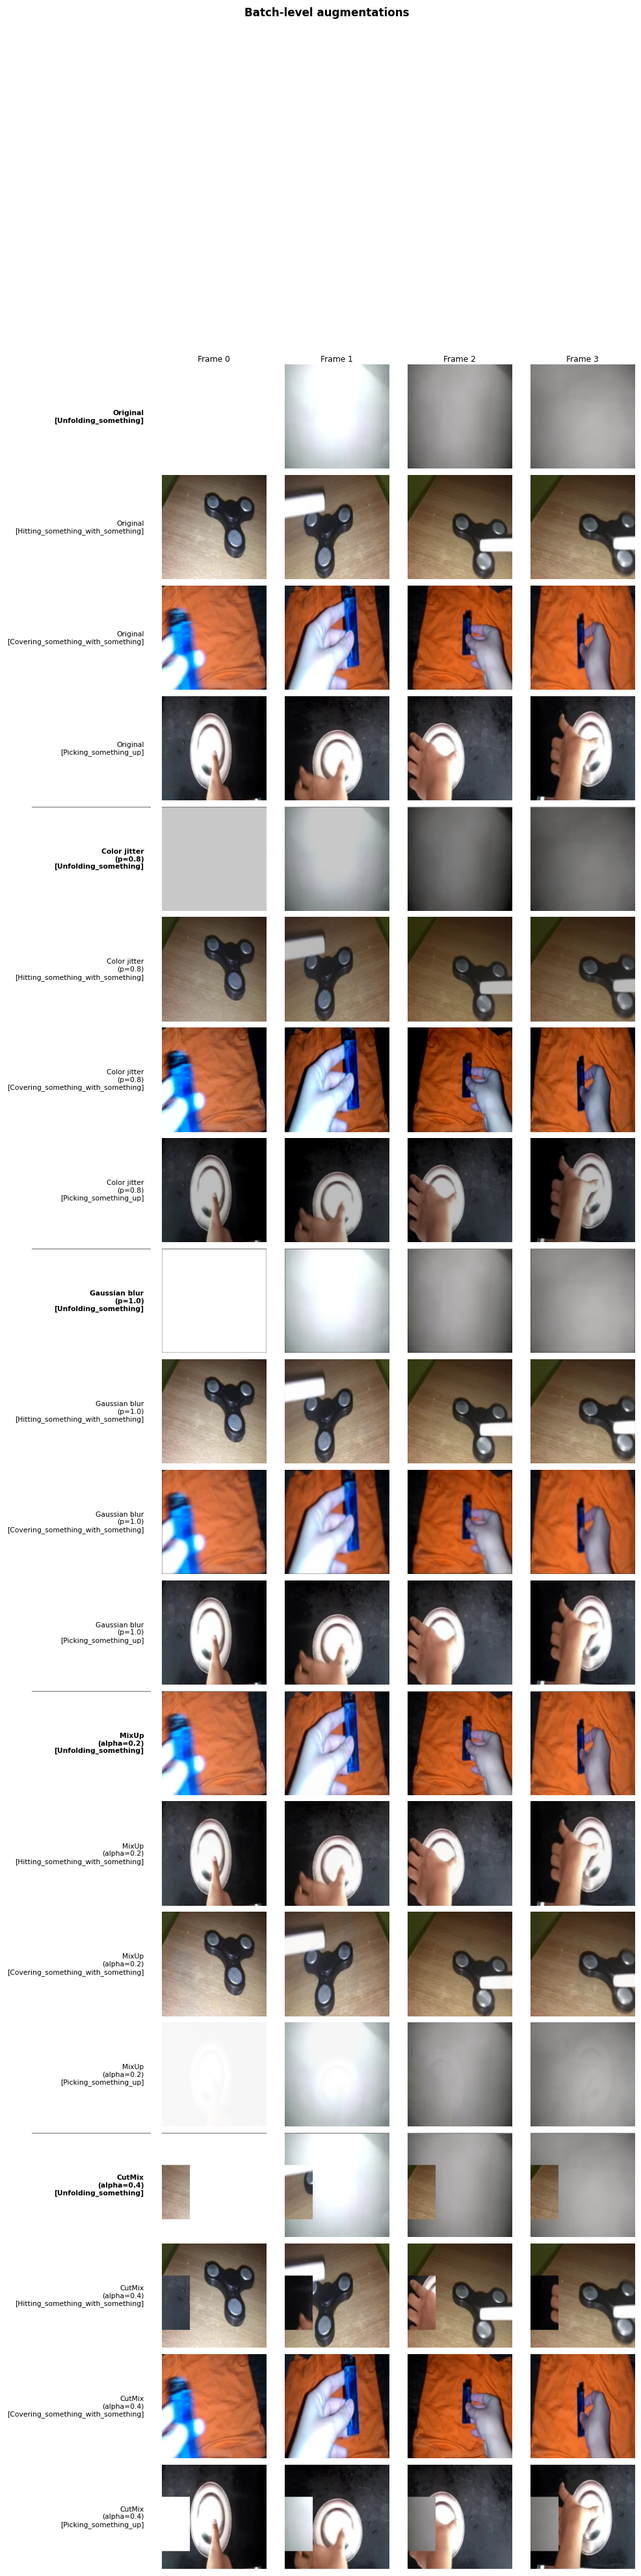
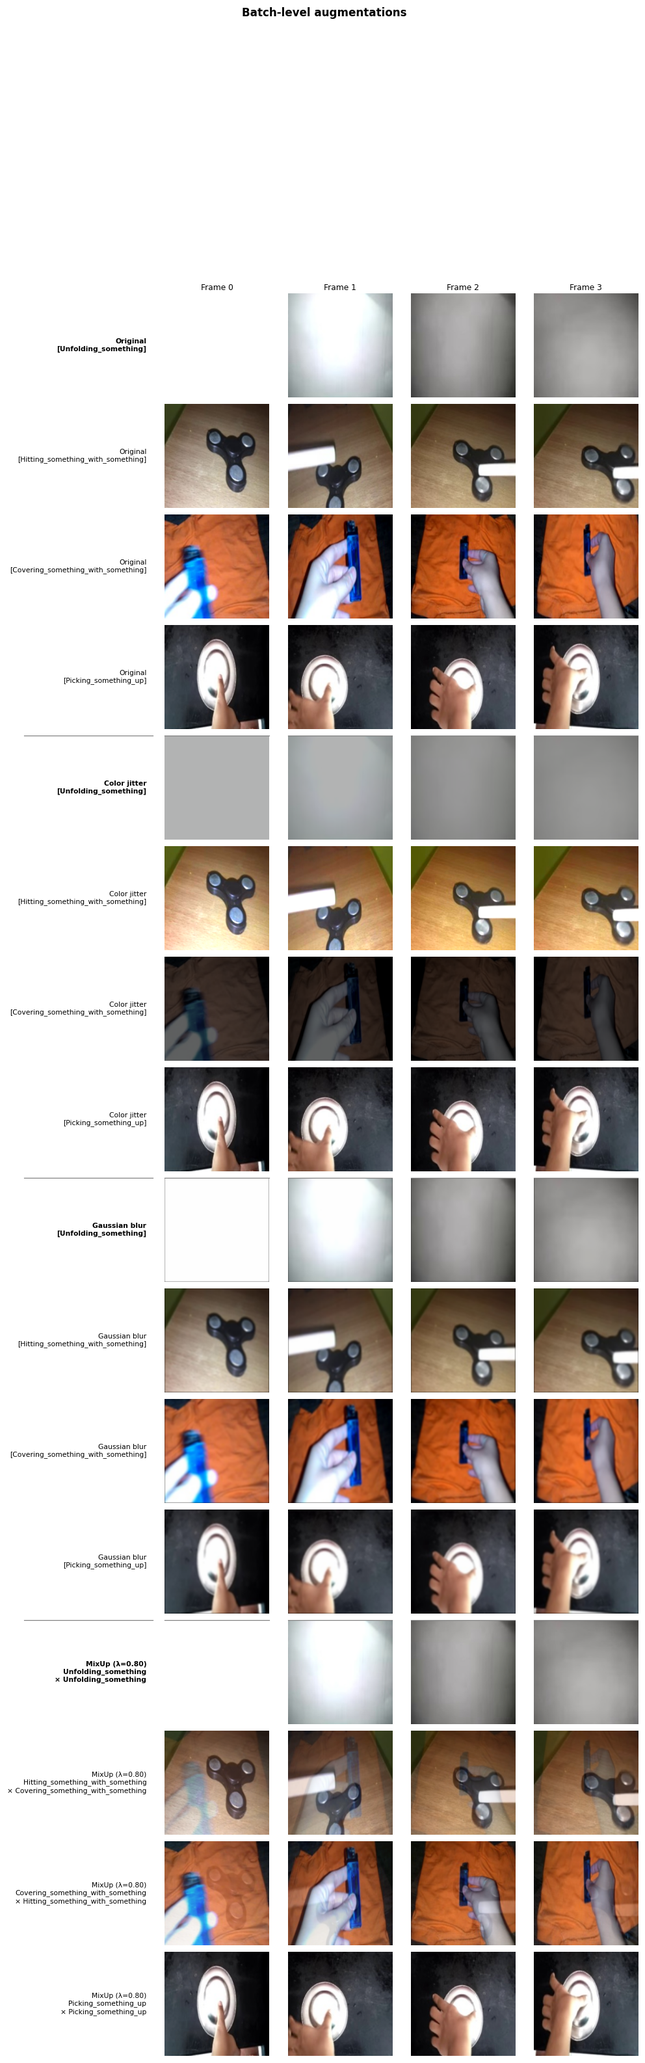
a

diff --git a/src/visualize_augmentations.py b/src/visualize_augmentations.py
@@ -23,7 +23,6 @@ matplotlib.use("Agg")
 import matplotlib.pyplot as plt
 import numpy as np
 import torch
-import torchvision.transforms as T
 from PIL import Image
 
 from dataset.video_dataset import _list_frame_paths, _pick_frame_indices, collect_video_samples
@@ -34,47 +33,33 @@ from train import (
     label_aware_temporal_reverse,
     mixup_batch,
 )
-
-
-@torch.no_grad()
-def cutmix_batch(
-    clips: torch.Tensor, labels: torch.Tensor,
-    alpha: float = 0.4, num_classes: int = 33,
-) -> Tuple[torch.Tensor, torch.Tensor]:
-    lam = float(torch.distributions.Beta(alpha, alpha).sample())
-    B, T, C, H, W = clips.shape
-    idx = torch.randperm(B, device=clips.device)
-    cut_h = int(H * (1 - lam) ** 0.5)
-    cut_w = int(W * (1 - lam) ** 0.5)
-    cy, cx = int(torch.randint(H, (1,))), int(torch.randint(W, (1,)))
-    y1, y2 = max(0, cy - cut_h // 2), min(H, cy + cut_h // 2)
-    x1, x2 = max(0, cx - cut_w // 2), min(W, cx + cut_w // 2)
-    mixed = clips.clone()
-    mixed[:, :, :, y1:y2, x1:x2] = clips[idx, :, :, y1:y2, x1:x2]
-    lam = 1.0 - (y2 - y1) * (x2 - x1) / (H * W)
-    y = torch.zeros(B, num_classes, device=clips.device)
-    y.scatter_(1, labels.unsqueeze(1), 1.0)
-    return mixed, lam * y + (1 - lam) * y[idx]
+from utils import build_transforms
 
 NUM_FRAMES = 4
+USE_IMAGENET_NORM = False  # matches Track A (pretrained=false)
 
-# Display transforms: spatial augmentations only, NO normalization.
-# Augmentation functions (color_jitter_video, etc.) expect [0, 1] tensors,
-# so we never apply ImageNet normalization during visualization.
-_DISPLAY_TRAIN_TRANSFORM = T.Compose([
-    T.RandomResizedCrop(224, scale=(0.5, 1.0)),
-    T.RandomHorizontalFlip(),
-    T.ToTensor(),
-])
+_train_transform = build_transforms(is_training=True,  use_imagenet_norm=USE_IMAGENET_NORM,
+                                    use_random_resized_crop=True)
+_eval_transform  = build_transforms(is_training=False, use_imagenet_norm=USE_IMAGENET_NORM)
 
-_DISPLAY_EVAL_TRANSFORM = T.Compose([
-    T.Resize((224, 224)),
-    T.ToTensor(),
-])
+# Denorm constants matching build_transforms normalization
+if USE_IMAGENET_NORM:
+    _MEAN = torch.tensor([0.485, 0.456, 0.406])
+    _STD  = torch.tensor([0.229, 0.224, 0.225])
+else:
+    _MEAN = torch.tensor([0.5, 0.5, 0.5])
+    _STD  = torch.tensor([0.5, 0.5, 0.5])
+
+
+def denorm(x: torch.Tensor) -> torch.Tensor:
+    """Undo build_transforms normalization. x: (..., C, H, W) -> [..., C, H, W] in [0, 1]."""
+    m = _MEAN.view(*([1] * (x.dim() - 3)), 3, 1, 1)
+    s = _STD.view(*([1] * (x.dim() - 3)), 3, 1, 1)
+    return (x * s + m).clamp(0, 1)
 
 
 def to_uint8(tensor: torch.Tensor) -> np.ndarray:
-    """(C, H, W) float [0,1] tensor -> (H, W, 3) uint8 numpy array."""
+    """(C, H, W) float [0, 1] tensor -> (H, W, 3) uint8 numpy array."""
     return (tensor.float().clamp(0, 1).permute(1, 2, 0).numpy() * 255).astype(np.uint8)
 
 
@@ -88,13 +73,13 @@ def load_raw_frames(video_dir: Path, num_frames: int = NUM_FRAMES) -> List[Image
     return frames
 
 
-def frames_to_tensor(frames: List[Image.Image], transform: T.Compose) -> torch.Tensor:
-    """Returns (T, C, H, W)."""
+def frames_to_tensor(frames: List[Image.Image], transform) -> torch.Tensor:
+    """Returns (T, C, H, W) normalized tensor."""
     return torch.stack([transform(f) for f in frames])
 
 
 def video_to_grid(video: torch.Tensor) -> List[np.ndarray]:
-    """(T, C, H, W) [0,1] tensor -> list of T uint8 HWC arrays."""
+    """(T, C, H, W) [0, 1] tensor -> list of T uint8 HWC arrays."""
     return [to_uint8(video[t]) for t in range(video.shape[0])]
 
 
@@ -145,30 +130,31 @@ def visualize_one_video(
 ) -> None:
     raw_frames = load_raw_frames(video_dir)
 
-    # [0,1] tensors throughout — no normalization
-    original    = frames_to_tensor(raw_frames, _DISPLAY_EVAL_TRANSFORM)   # (T,C,H,W)
-    transformed = frames_to_tensor(raw_frames, _DISPLAY_TRAIN_TRANSFORM)  # (T,C,H,W)
-    batch = transformed.unsqueeze(0)  # (1,T,C,H,W)
+    original    = frames_to_tensor(raw_frames, _eval_transform)   # (T,C,H,W) normalized
+    transformed = frames_to_tensor(raw_frames, _train_transform)  # (T,C,H,W) normalized
+
+    # Denorm to [0,1] for augmentation functions
+    batch_01 = denorm(transformed.unsqueeze(0))  # (1,T,C,H,W)
 
     labels    = torch.tensor([0])
     forbidden = torch.tensor([], dtype=torch.long)
 
-    jittered = color_jitter_video(batch.clone(), p=1.0, strength=0.6)[0]
-    blurred  = gaussian_blur_video(batch.clone(), p=1.0, sigma_range=(0.5, 2.0))[0]
+    jittered = color_jitter_video(batch_01.clone(), p=1.0, strength=0.8)[0]
+    blurred  = gaussian_blur_video(batch_01.clone(), p=1.0, sigma_range=(1.0, 2.5))[0]
 
-    flipped, _ = label_aware_horizontal_flip(batch.clone(), labels, forbidden, p=1.0)
+    flipped, _ = label_aware_horizontal_flip(batch_01.clone(), labels, forbidden, p=1.0)
 
     reverse_lookup = torch.full((33,), -1, dtype=torch.long)
     reverse_lookup[0] = 0
-    reversed_, _ = label_aware_temporal_reverse(batch.clone(), labels, reverse_lookup, p=1.0)
+    reversed_, _ = label_aware_temporal_reverse(batch_01.clone(), labels, reverse_lookup, p=1.0)
 
     rows: List[Tuple[str, List[np.ndarray]]] = [
-        ("Original\n(resize only)",                    video_to_grid(original)),
-        ("Train transform\n(crop + h-flip)",            video_to_grid(transformed)),
-        ("Color jitter\n(brightness/contrast/\nsaturation, s=0.6)", video_to_grid(jittered)),
-        ("Gaussian blur\n(sigma in [0.5, 2.0])",        video_to_grid(blurred)),
-        ("Horizontal flip",                             video_to_grid(flipped[0])),
-        ("Temporal reverse\n(frame order reversed)",   video_to_grid(reversed_[0])),
+        ("Original\n(resize only)",                                video_to_grid(denorm(original))),
+        ("Train transform\n(crop + h-flip)",                       video_to_grid(denorm(transformed))),
+        ("Color jitter\n(brightness/contrast/\nsaturation, s=0.8)", video_to_grid(jittered)),
+        ("Gaussian blur\n(sigma in [1.0, 2.5])",                   video_to_grid(blurred)),
+        ("Horizontal flip",                                        video_to_grid(flipped[0])),
+        ("Temporal reverse\n(frame order reversed)",               video_to_grid(reversed_[0])),
     ]
 
     fig = build_figure(rows, "Per-video augmentation pipeline", class_name)
@@ -188,24 +174,39 @@ def visualize_batch_augments(
 
     for video_dir, label in chosen:
         raw = load_raw_frames(video_dir)
-        clips.append(frames_to_tensor(raw, _DISPLAY_TRAIN_TRANSFORM))
+        clips.append(frames_to_tensor(raw, _train_transform))
         labels_list.append(label)
         names.append(class_names[label] if label < len(class_names) else str(label))
 
-    batch  = torch.stack(clips)         # (B,T,C,H,W) in [0,1]
-    labels = torch.tensor(labels_list)  # (B,)
+    batch_norm = torch.stack(clips)          # (B,T,C,H,W) normalized
+    batch_01   = denorm(batch_norm)          # (B,T,C,H,W) in [0,1] for augmentation functions
 
-    augments = {
-        "Original":               batch.clone(),
-        "Color jitter\n(p=0.8)":  color_jitter_video(batch.clone(), p=0.8, strength=0.4),
-        "Gaussian blur\n(p=1.0)": gaussian_blur_video(batch.clone(), p=1.0, sigma_range=(0.3, 1.5)),
-        "MixUp\n(alpha=0.2)":     mixup_batch(batch.clone(), labels.clone(), alpha=0.2, num_classes=33)[0],
-        "CutMix\n(alpha=0.4)":    cutmix_batch(batch.clone(), labels.clone(), alpha=0.4, num_classes=33)[0],
+    # MixUp done locally so we can track the permutation and show both class names
+    B = len(chosen)
+    mixup_lam  = float(torch.distributions.Beta(0.5, 0.5).sample())
+    mixup_perm = torch.randperm(B).tolist()
+    mixup_batch_01 = mixup_lam * batch_01 + (1 - mixup_lam) * batch_01[mixup_perm]
+    # Label for each MixUp row: "A (λ) × B (1-λ)"
+    mixup_row_labels = [
+        f"MixUp (λ={mixup_lam:.2f})\n{names[i]}\n× {names[mixup_perm[i]]}"
+        for i in range(B)
+    ]
+
+    # Non-MixUp augments share the same per-video label format
+    simple_augments = {
+        "Original":               (batch_01.clone(),  [f"Original\n[{names[i]}]"         for i in range(B)]),
+        "Color jitter\n(p=0.8)":  (color_jitter_video(batch_01.clone(), p=0.8, strength=0.8),
+                                   [f"Color jitter\n[{names[i]}]"      for i in range(B)]),
+        "Gaussian blur\n(p=1.0)": (gaussian_blur_video(batch_01.clone(), p=1.0, sigma_range=(1.0, 2.5)),
+                                   [f"Gaussian blur\n[{names[i]}]"     for i in range(B)]),
     }
+    mixup_entry = (mixup_batch_01, mixup_row_labels)
 
-    n_aug       = len(augments)
+    all_groups = list(simple_augments.values()) + [mixup_entry]
+
+    n_aug       = len(all_groups)
     total_rows  = n_videos * n_aug
-    label_col_w = 2.2
+    label_col_w = 2.4
     frame_col_w = 2.2
     n_cols      = NUM_FRAMES + 1
 
@@ -219,14 +220,14 @@ def visualize_batch_augments(
         wspace=0.04,
     )
 
-    for aug_idx, (aug_name, aug_batch) in enumerate(augments.items()):
+    for aug_idx, (aug_batch, row_labels) in enumerate(all_groups):
         for vid_idx in range(n_videos):
             row_idx = aug_idx * n_videos + vid_idx
             frames  = video_to_grid(aug_batch[vid_idx])
 
             ax_label = fig.add_subplot(gs[row_idx, 0])
             ax_label.text(
-                0.95, 0.5, f"{aug_name}\n[{names[vid_idx]}]",
+                0.95, 0.5, row_labels[vid_idx],
                 ha="right", va="center",
                 fontsize=7,
                 fontweight="bold" if vid_idx == 0 else "normal",
